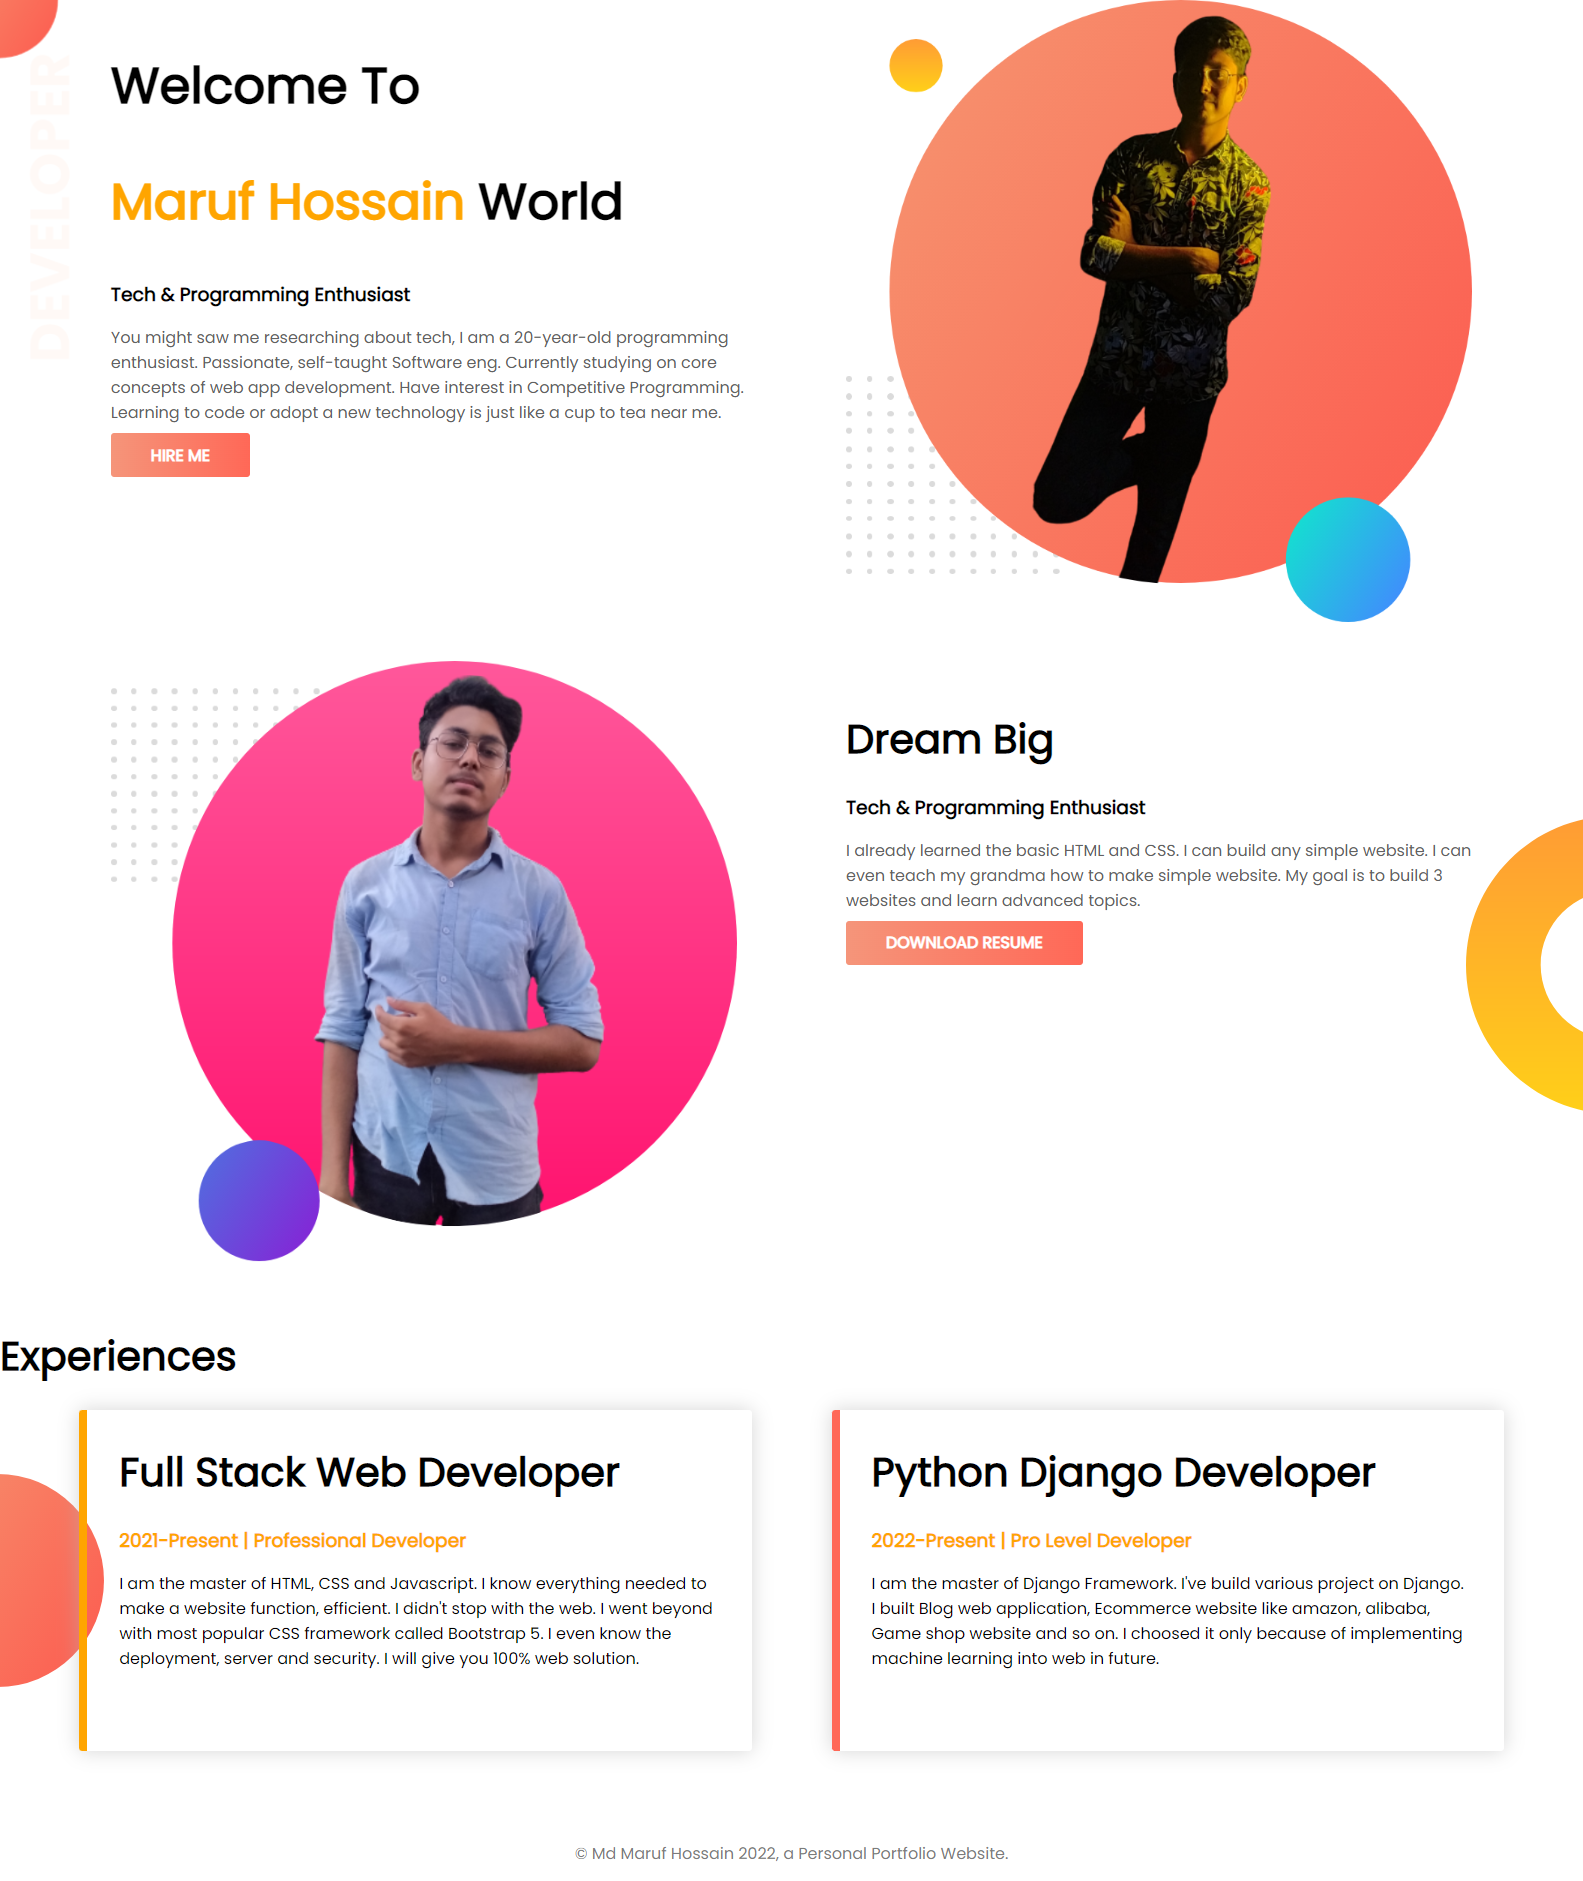
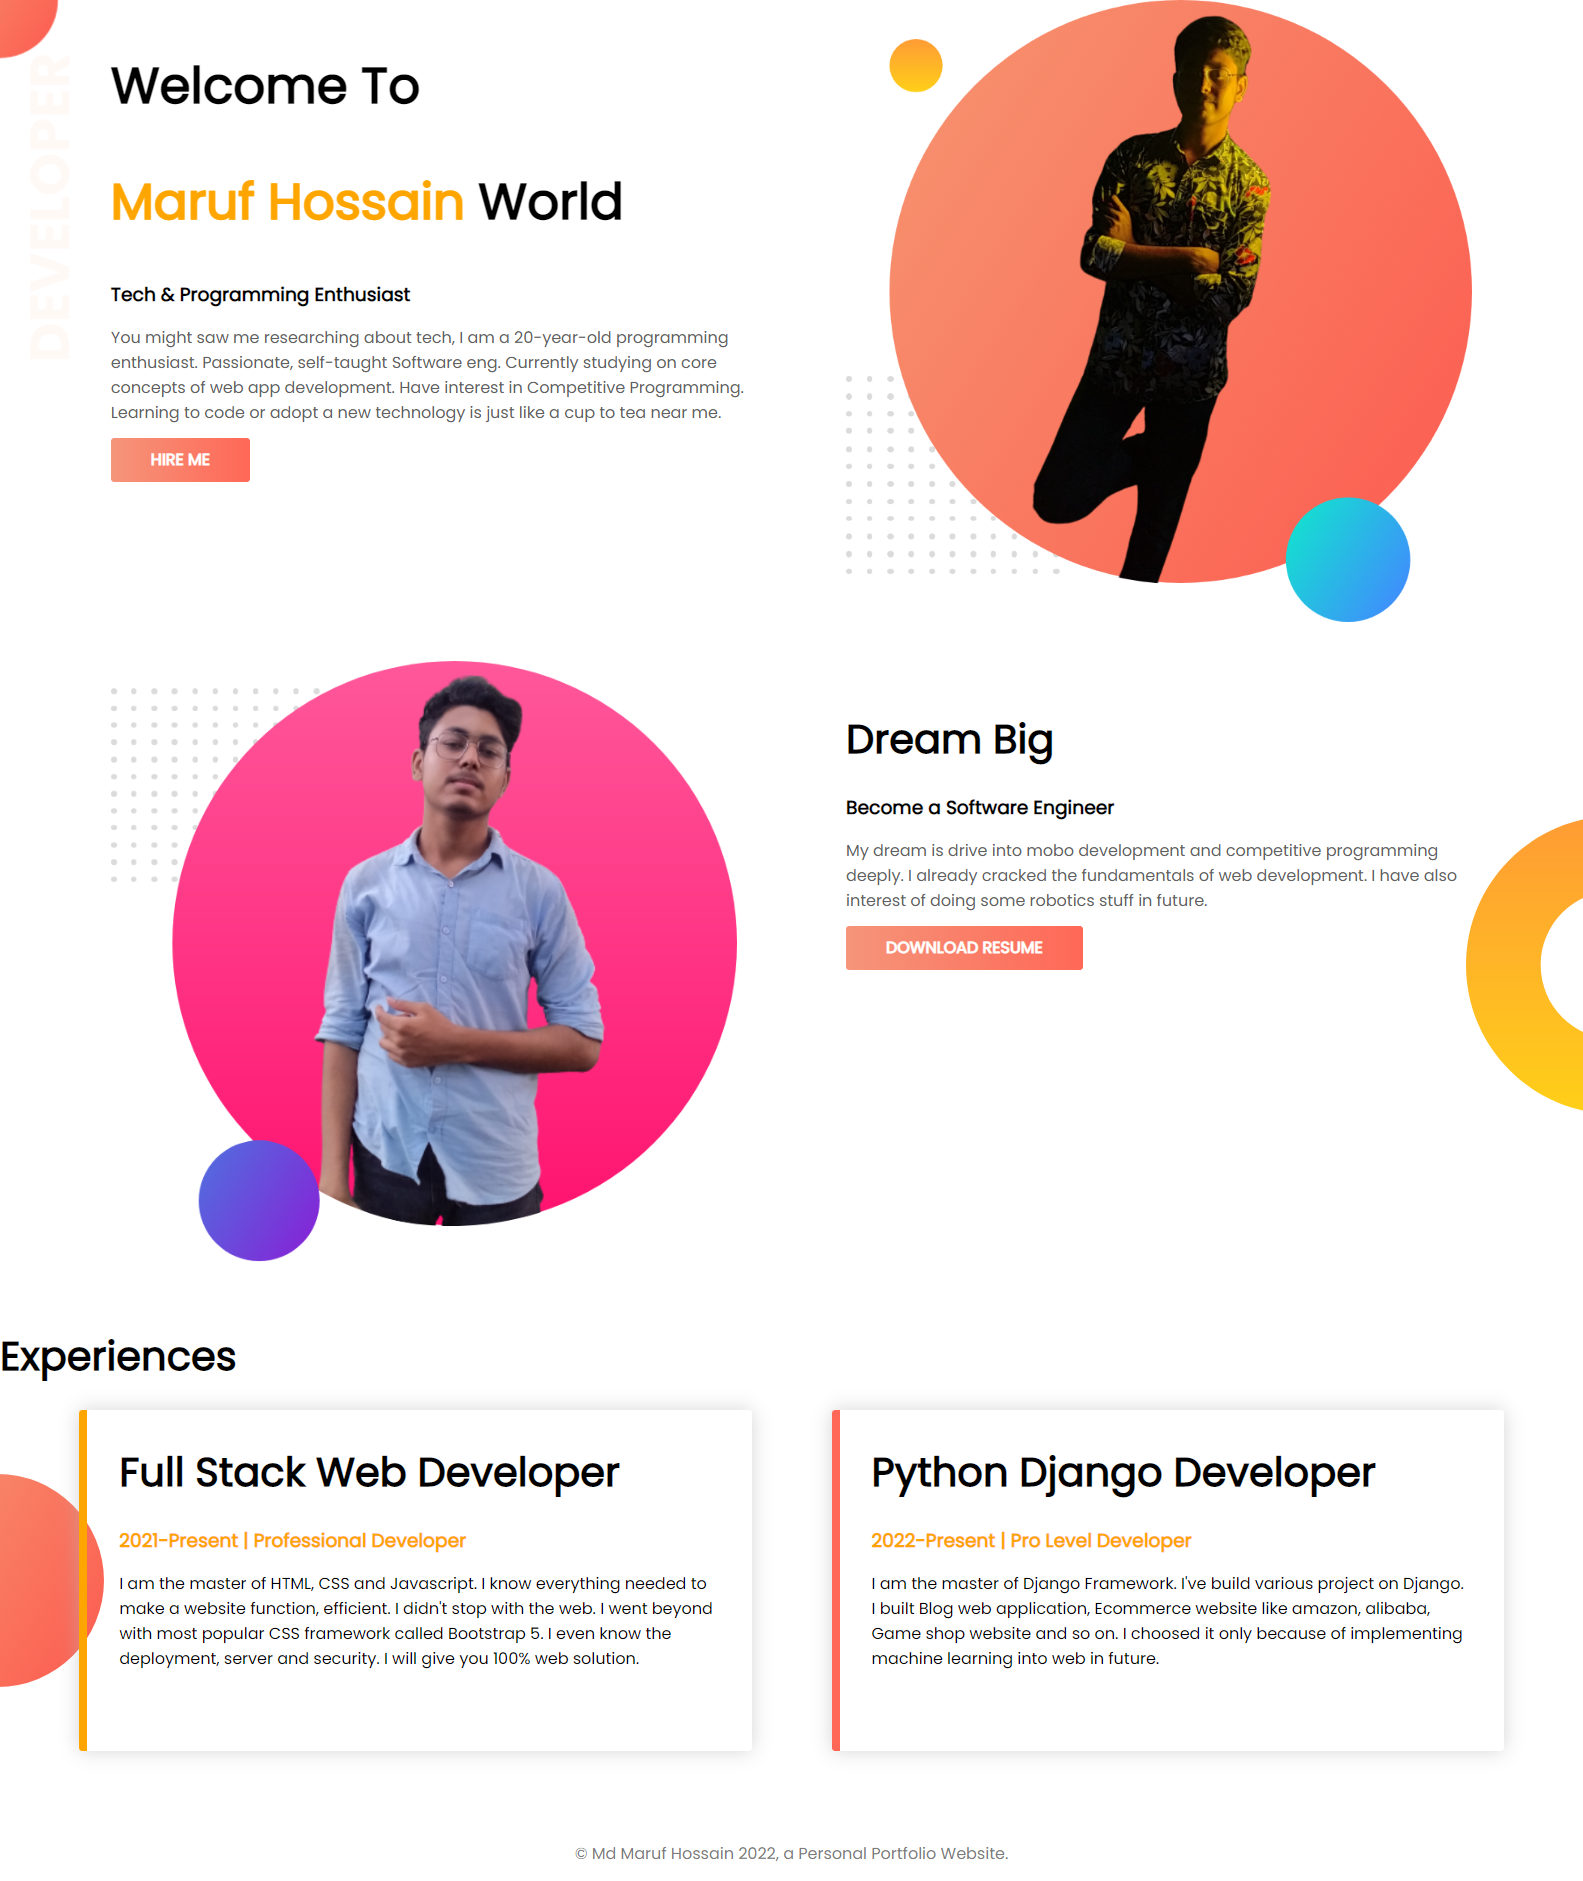
changed some contents

Changed region(s): [[0.5262, 0.4009, 0.9286, 0.5242], [0.0929, 0.2158, 0.1548, 0.2775]]

diff --git a/index.html b/index.html
@@ -37,9 +37,9 @@
             </div>
             <div class="hero-text">
                 <h2>Dream Big</h2>
-                <h3>Tech & Programming Enthusiast</h3>
+                <h3>Become a Software Engineer</h3>
                 <p>
-                    I already learned the basic HTML and CSS. I can build any simple website. I can even teach my grandma how to make simple website. My goal is to build 3 websites and learn advanced topics.
+                    My dream is drive into mobo development and competitive programming deeply. I already cracked the fundamentals of web development. I have also interest of doing some robotics stuff in future.
                 </p>
                 <a class="btn btn-link">DOWNLOAD RESUME</a>
             </div> 

diff --git a/css/style.css b/css/style.css
@@ -47,6 +47,7 @@ h2 {
     display: inline-block;
     border-radius: 0.2rem;
     text-transform: uppercase;
+    margin-top: 0.3rem;
 }
 
 /* hero-section */
